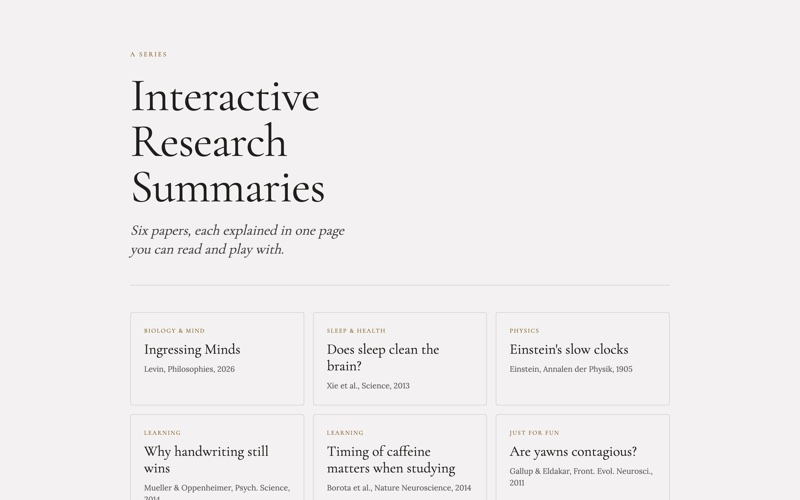
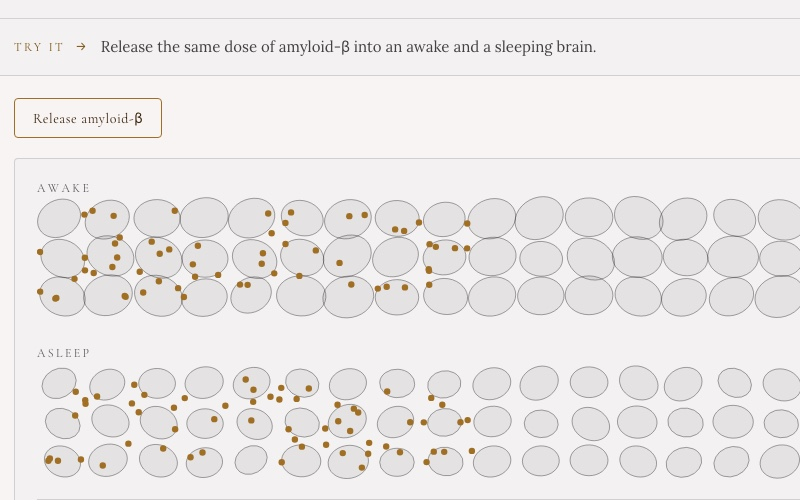
Shorter project text with keywords, and an experiment as the research picture

diff --git a/index.html b/index.html
@@ -150,7 +150,8 @@
             <div class="row-head">
               <h3 class="name"><a href="https://zula-root.github.io/Docket-Clock/" target="_blank" rel="noreferrer">Sentence Clocks<span class="arrow in" aria-hidden="true">↗</span></a></h3>
             </div>
-            <p class="summary">I made two interactive clocks. One shows a train departing somewhere in the world, and the other shows a line from a court case that mentions the time.</p>
+            <p class="summary">Two clocks that tell the time with real train departures and court cases.</p>
+            <ul class="tags"><li class="tag">Live train departures</li><li class="tag">Court cases</li></ul>
             <!-- The clocks themselves, live, drawn on this page's own background.
                  The buttons swap which one is shown. -->
             <div class="live" data-clock="Docket-Clock">
@@ -169,7 +170,8 @@
             <div class="row-head">
               <h3 class="name"><a href="projects/research-summaries.html">Interactive Research Summaries<span class="arrow in" aria-hidden="true">→</span></a></h3>
             </div>
-            <p class="summary">I turned six research papers into interactive websites. Each one explains the paper in simple terms, with interactive visuals. The topics include sleep cleaning the brain, handwriting versus typing notes, and Einstein’s moving clocks.</p>
+            <p class="summary">Six research papers, each explained on an interactive page.</p>
+            <ul class="tags"><li class="tag">Neuroscience</li><li class="tag">Physics</li><li class="tag">Psychology</li></ul>
             <p class="row-links"><a href="https://zula-root.github.io/Interactive-Research-Papers/" target="_blank" rel="noreferrer">View project<span aria-hidden="true">↗</span></a><a href="https://github.com/zula-root/Interactive-Research-Papers" target="_blank" rel="noreferrer">View on GitHub<span aria-hidden="true">↗</span></a></p>
             <a class="thumb" href="projects/research-summaries.html" tabindex="-1" aria-hidden="true"><img src="img/research-summaries.jpg" alt="" width="800" height="500" loading="lazy"></a>
           </li>
